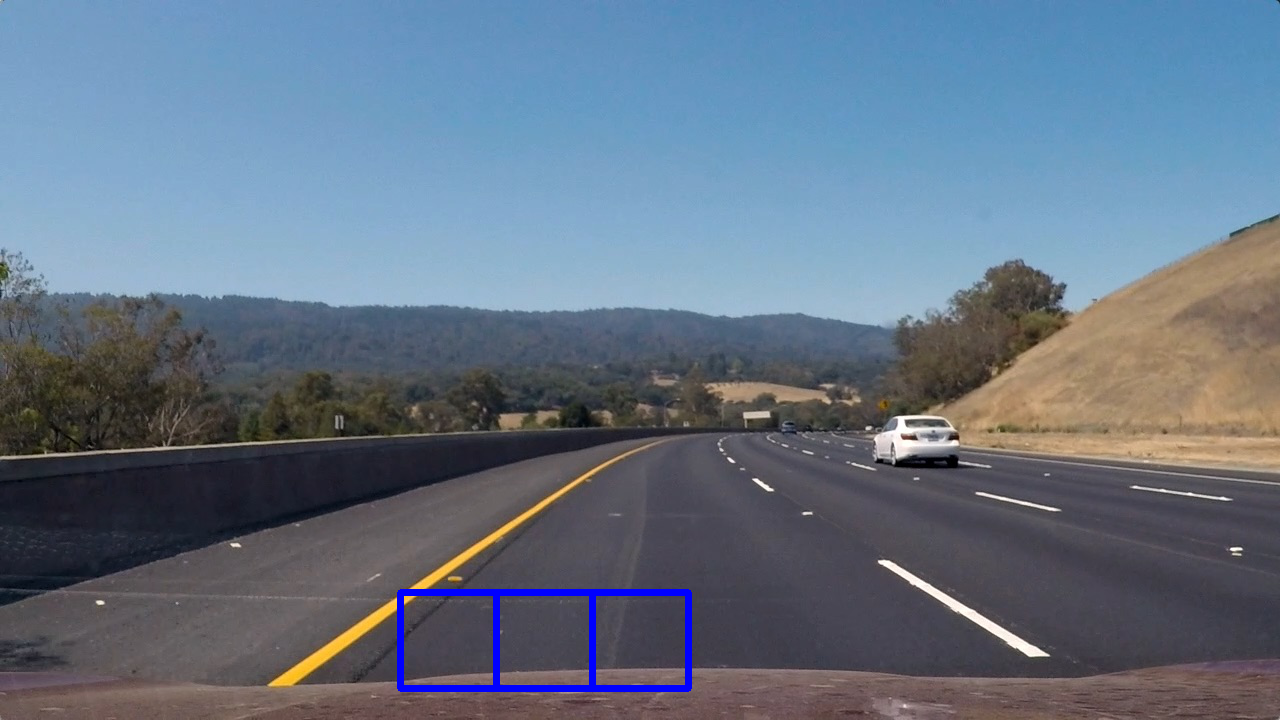
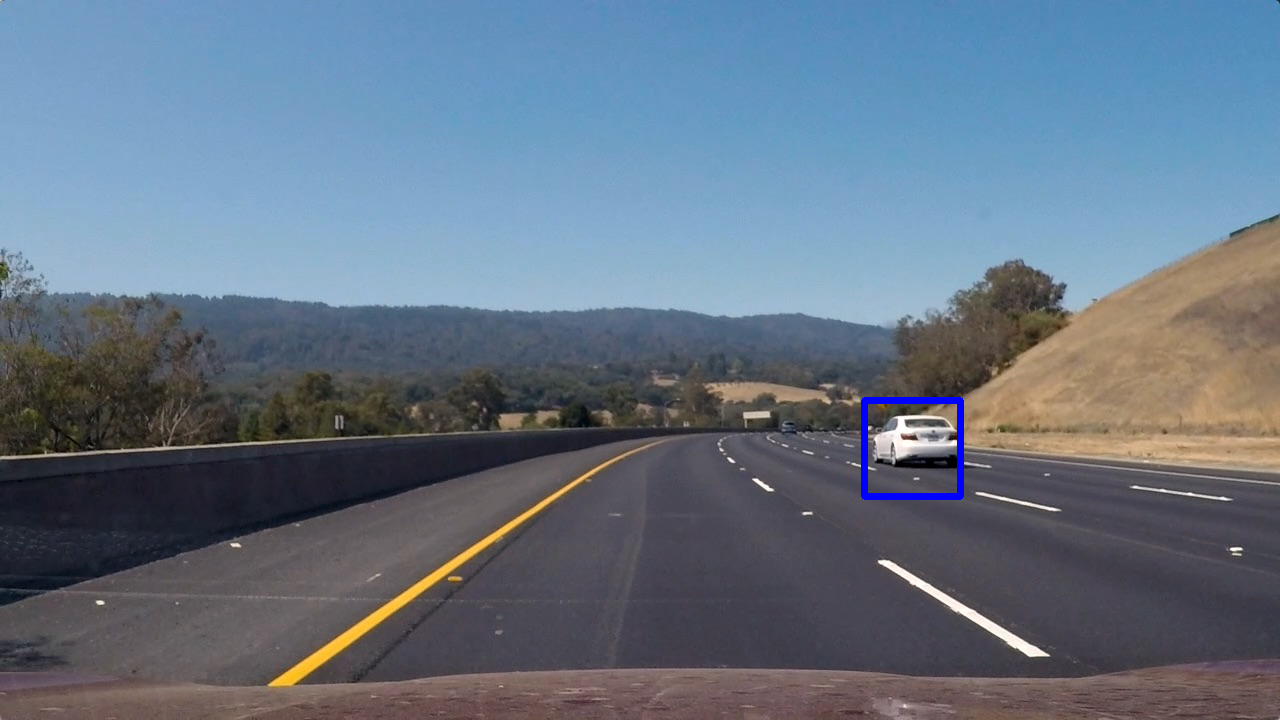
corrected loading of trained model

Changed region(s): [[0.3125, 0.7944, 0.5625, 0.9778], [0.6562, 0.55, 0.75, 0.7028]]

diff --git a/Term1/Project5_Vehicle_Detection_and_Tracking_Project/vedet_main.py b/Term1/Project5_Vehicle_Detection_and_Tracking_Project/vedet_main.py
@@ -134,12 +134,20 @@ if os.path.isfile(modelfilename):
         spatial_feat = data["spatial_feat"]
         hist_feat = data["hist_feat"]
         hog_feat = data["hog_feat"]
+
+        # Create an array stack of feature vectors
+        X = np.vstack((car_features, notcar_features)).astype(np.float64)
+        # Define the labels vector
+        y = np.hstack((np.ones(len(car_features)), np.zeros(len(notcar_features))))
+        X_scaler = StandardScaler().fit(X)
+
     else:
         svc = None
         print("Loaded linear SVC classifier:")
 
     print("Loaded model!")
 else:
+    svc = None
     # Read in cars and notcars
     carimages = glob.glob('./vehicles/**/*.png', recursive=True)
     notcarimages = glob.glob('./non-vehicles/**/*.png', recursive=True)
@@ -157,49 +165,55 @@ else:
     cars = cars[0:sample_size]
     notcars = notcars[0:sample_size]
 
-    car_features = extract_features(cars, color_space=color_space,
-                                    spatial_size=spatial_size, hist_bins=hist_bins,
-                                    orient=orient, pix_per_cell=pix_per_cell,
-                                    cell_per_block=cell_per_block,
-                                    hog_channel=hog_channel, spatial_feat=spatial_feat,
-                                    hist_feat=hist_feat, hog_feat=hog_feat)
-    notcar_features = extract_features(notcars, color_space=color_space,
-                                       spatial_size=spatial_size, hist_bins=hist_bins,
-                                       orient=orient, pix_per_cell=pix_per_cell,
-                                       cell_per_block=cell_per_block,
-                                       hog_channel=hog_channel, spatial_feat=spatial_feat,
-                                       hist_feat=hist_feat, hog_feat=hog_feat)
+# load or train from scratch
+    if svc is None: # train
+        car_features = extract_features(cars, color_space=color_space,
+                                        spatial_size=spatial_size, hist_bins=hist_bins,
+                                        orient=orient, pix_per_cell=pix_per_cell,
+                                        cell_per_block=cell_per_block,
+                                        hog_channel=hog_channel, spatial_feat=spatial_feat,
+                                        hist_feat=hist_feat, hog_feat=hog_feat)
+        notcar_features = extract_features(notcars, color_space=color_space,
+                                           spatial_size=spatial_size, hist_bins=hist_bins,
+                                           orient=orient, pix_per_cell=pix_per_cell,
+                                           cell_per_block=cell_per_block,
+                                           hog_channel=hog_channel, spatial_feat=spatial_feat,
+                                           hist_feat=hist_feat, hog_feat=hog_feat)
 
-    # Use a linear SVC
-    svc = LinearSVC()
+        # Use a linear SVC
+        svc = LinearSVC()
 
-    # Create an array stack of feature vectors
-    X = np.vstack((car_features, notcar_features)).astype(np.float64)
+        # Create an array stack of feature vectors
+        X = np.vstack((car_features, notcar_features)).astype(np.float64)
 
-    # Define the labels vector
-    y = np.hstack((np.ones(len(car_features)), np.zeros(len(notcar_features))))
+        # Define the labels vector
+        y = np.hstack((np.ones(len(car_features)), np.zeros(len(notcar_features))))
 
-    # Split up data into randomized training and test sets
-    rand_state = np.random.randint(0, 100)
-    X_train, X_test, y_train, y_test = train_test_split(
-        X, y, test_size=0.2, random_state=rand_state)
+        # Split up data into randomized training and test sets
+        rand_state = np.random.randint(0, 100)
+        X_train, X_test, y_train, y_test = train_test_split(
+            X, y, test_size=0.2, random_state=rand_state)
 
-    # Fit a per-column scaler
-    X_scaler = StandardScaler().fit(X_train)
-    # Apply the scaler to X
-    X_train = X_scaler.transform(X_train)
-    X_test = X_scaler.transform(X_test)
+        # Fit a per-column scaler
+        X_scaler = StandardScaler().fit(X_train)
+        # Apply the scaler to X
+        X_train = X_scaler.transform(X_train)
+        X_test = X_scaler.transform(X_test)
 
-    print('Using:', orient, 'orientations', pix_per_cell,
-          'pixels per cell and', cell_per_block, 'cells per block')
-    print('Feature vector length:', len(X_train[0]))
+        print('Using:', orient, 'orientations', pix_per_cell,
+              'pixels per cell and', cell_per_block, 'cells per block')
+        print('Feature vector length:', len(X_train[0]))
 
 
-    # Check the training time for the SVC
-    t = time.time()
-    svc.fit(X_train, y_train)
-    t2 = time.time()
-    print(round(t2 - t, 2), 'Seconds to train SVC...')
+        # Check the training time for the SVC
+        t = time.time()
+        svc.fit(X_train, y_train)
+        t2 = time.time()
+        print(round(t2 - t, 2), 'Seconds to train SVC...')
+    else: # load the last training result
+        print("use the loaded svc together with training")
+
+
     # Check the score of the SVC
     print('Test Accuracy of SVC = ', round(svc.score(X_test, y_test), 4))
     # Check the prediction time for a single sample
@@ -210,6 +224,7 @@ else:
     t2 = time.time()
     print(round(t2 - t, 5), 'Seconds to predict', n_predict, 'labels with SVC')
     data = {
+        "svc": svc,
         "cars_features": car_features,
         "notcars_features": notcar_features,
         "colorspace": color_space,
@@ -227,26 +242,7 @@ else:
     with open(modelfilename, mode="wb") as f:
         pickle.dump(data, f)
 
-    data = {
-        "cars_features": car_features,
-        "notcars_features": notcar_features,
-        "colorspace": color_space,
-        "orient": orient,
-        "pix_per_cell": pix_per_cell,
-        "cell_per_block": cell_per_block,
-        "hog_channel": hog_channel,
-        "spatial_size": spatial_size,
-        "hist_bins": hist_bins,
-        "spatial_feat": spatial_feat,
-        "hist_feat": hist_feat,
-        "hog_feat": hog_feat
-    }
 
-# Create an array stack of feature vectors
-X = np.vstack((car_features, notcar_features)).astype(np.float64)
-# Define the labels vector
-y = np.hstack((np.ones(len(car_features)), np.zeros(len(notcar_features))))
-X_scaler = StandardScaler().fit(X)
 
 #doitonthevideo = True
 doitonthevideo = False
@@ -259,12 +255,14 @@ if doitonthevideo == False:
         image = mpimg.imread(filename)
         if image is None:
             continue
-        draw_image = np.copy(image)
+        #dst = process_image_lane_detect(image)
+        dst = image
+        draw_image = np.copy(dst)
         # Uncomment the following line if you extracted training
         # data from .png images (scaled 0 to 1 by mpimg) and the
         # image you are searching is a .jpg (scaled 0 to 255)
         image = image.astype(np.float32)/255
-        windows = slide_window(image, x_start_stop=y_start_stop, y_start_stop=y_start_stop,
+        windows = slide_window(image, x_start_stop=[None, None], y_start_stop=y_start_stop,
                                xy_window=(96, 96), xy_overlap=(0.5, 0.5))
         hot_windows = search_windows(image, windows, svc, X_scaler, color_space=color_space,
                                      spatial_size=spatial_size, hist_bins=hist_bins,
@@ -273,9 +271,18 @@ if doitonthevideo == False:
                                      hog_channel=hog_channel, spatial_feat=spatial_feat,
                                      hist_feat=hist_feat, hog_feat=hog_feat)
         window_img = draw_boxes(draw_image, hot_windows, color=(0, 0, 255), thick=6)
-        mpimg.imsave(outimgpath + "candidate_" + os.path.splitext(os.path.basename(filename))[0] + ".png", window_img)  # jpg write not possible, use png
+        heat = np.zeros_like(dst[:, :, 0]).astype(np.float)
+        heat = add_heat(heat, hot_windows)
+        # Apply threshold to help remove false positives
+        heat = apply_threshold(heat, 2)
+        # Visualize the heatmap when displaying
+        heatmap = np.clip(heat, 0, 1)
+        # Find final boxes from heatmap using label function
+        labels = label(heatmap)
+        draw_img = draw_labeled_bboxes(window_img, labels)
+        mpimg.imsave(outimgpath + "candidate_" + os.path.splitext(os.path.basename(filename))[0] + ".png", draw_img)  # jpg write not possible, use png
 #        mpimg.imsave('candidates.png', window_img)
-        print(' ')
+        print('processed example img ', filename)
 
 else:
     video_input00 = 'test_video.mp4'
